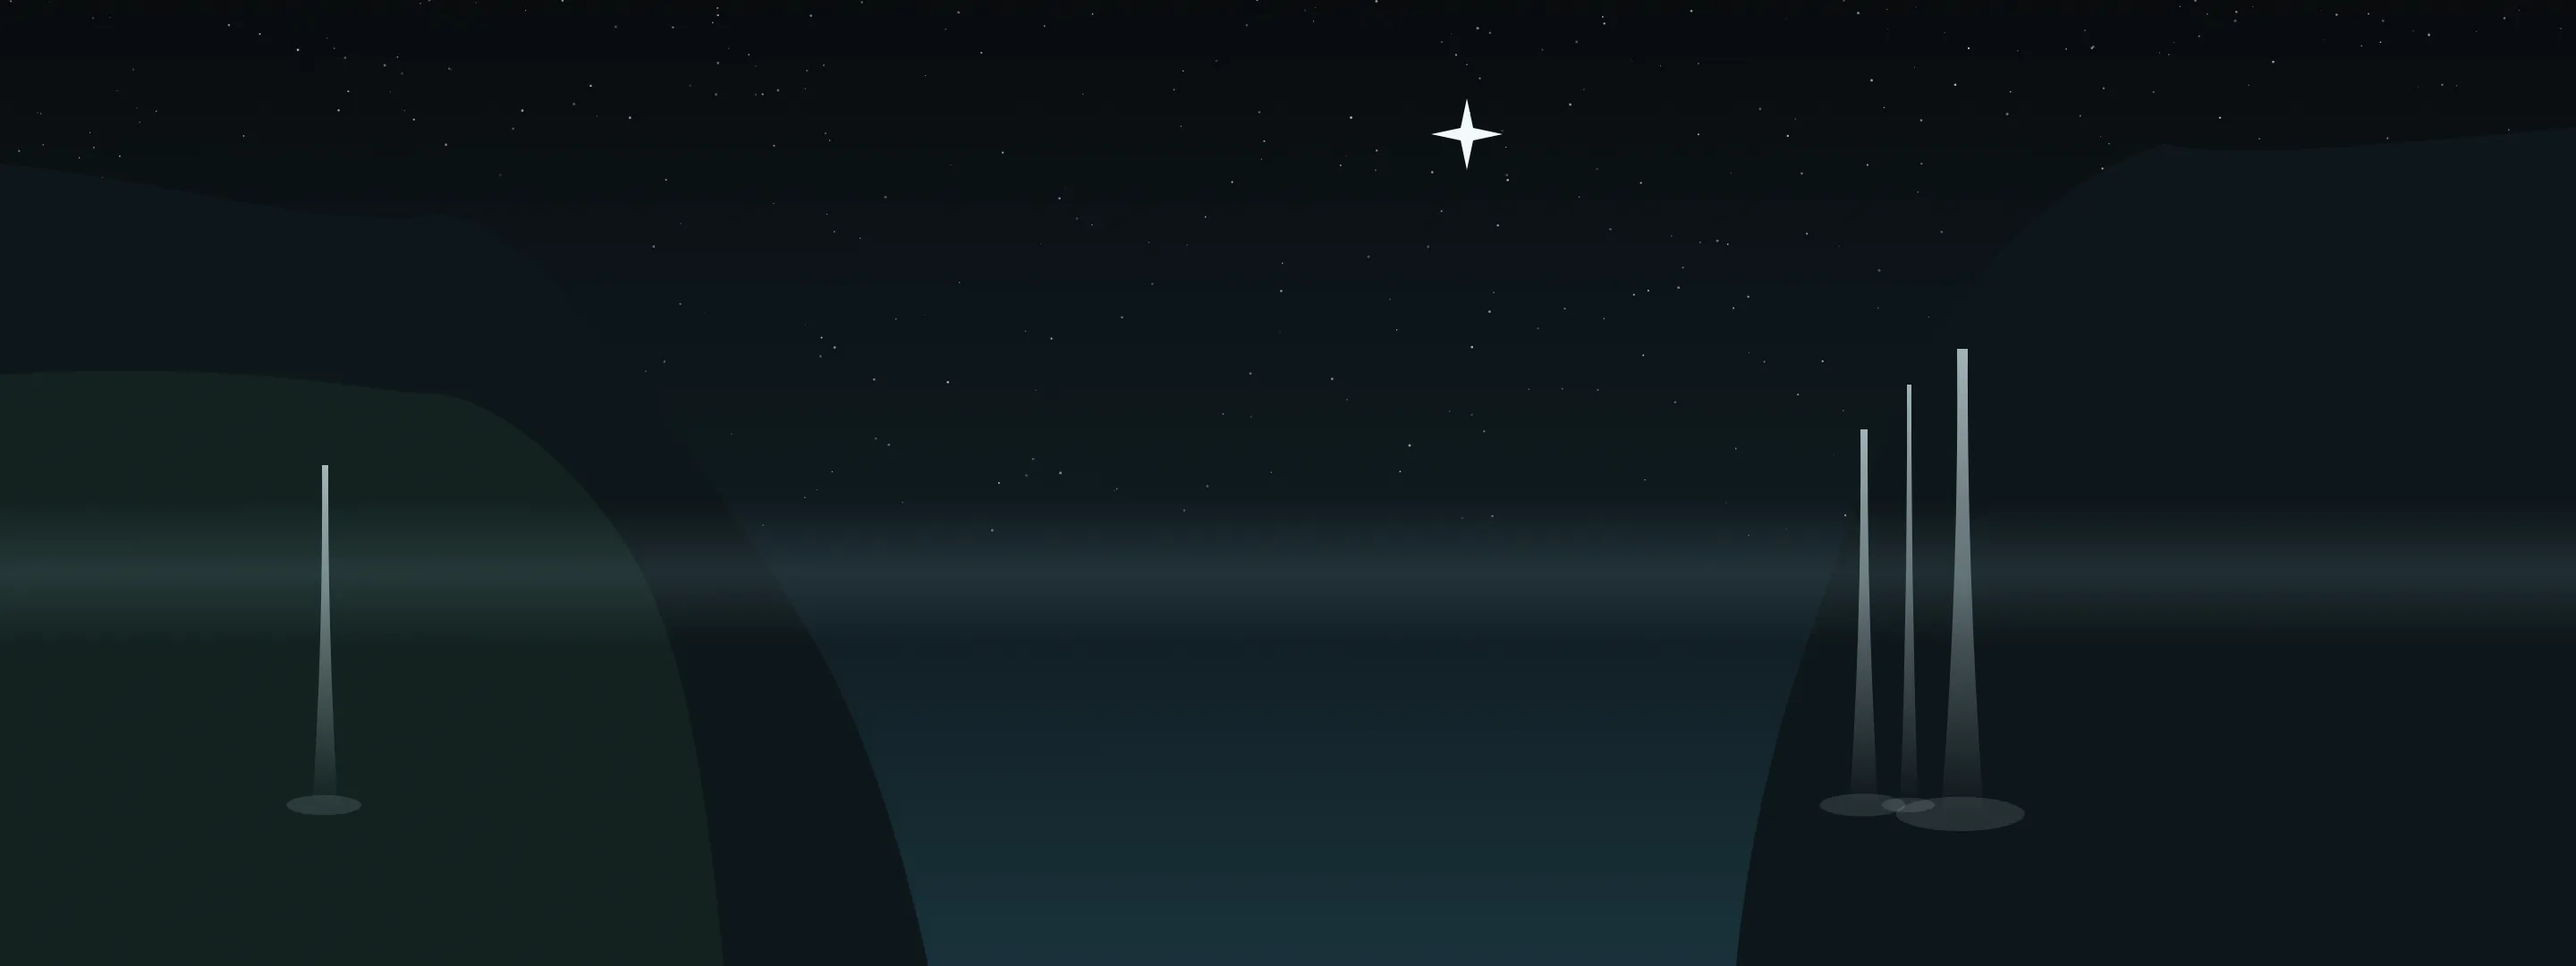
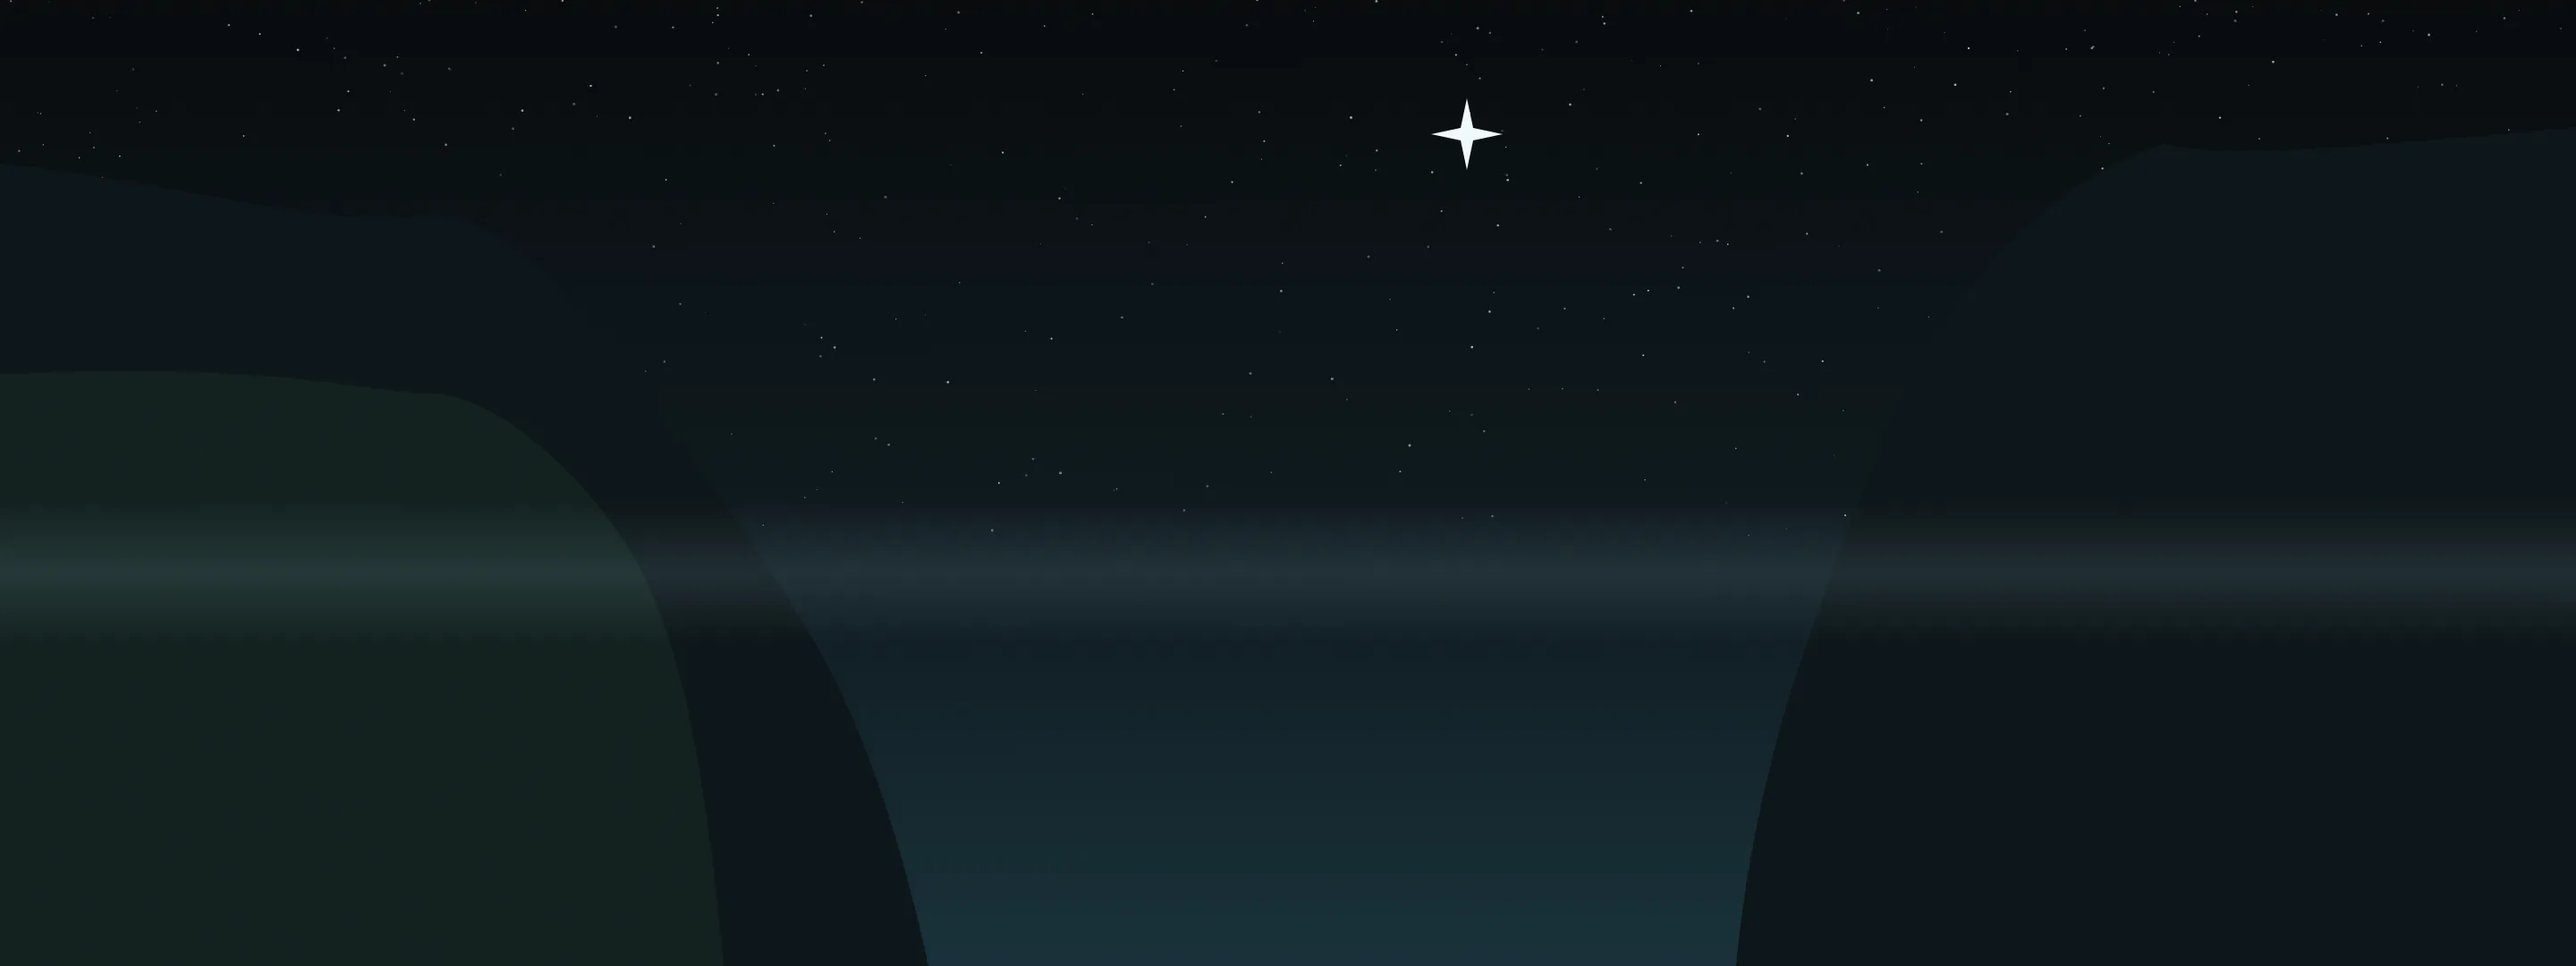
Elven Silver without the waterfalls; the scene animates whatever Windows' Animation effects say; a smoother Shire on the phone
Claude-Session: https://claude.ai/code/session_017W43PDuLZRYq8s74KtNtND

diff --git a/app/src/main/java/com/middleearth/launcher/Scene.kt b/app/src/main/java/com/middleearth/launcher/Scene.kt
@@ -162,7 +162,7 @@ object SvgPath {
 /**
  * The moving parts of one scene, in the design's units. Each look has its own (sun, clouds,
  * chimney smoke and river glints; the campfire, embers and compass; stars, the moon, lake glints
- * and the cabin window; waterfalls, mist, lanterns and rising motes), plus the weather.
+ * and the cabin window; mist, lanterns and rising motes), plus the weather.
  */
 class Motion(private val look: String, land: Boolean, private val weather: Int, private val still: Boolean) {
     private val L = land
@@ -250,7 +250,6 @@ class Motion(private val look: String, land: Boolean, private val weather: Int, 
     // --- Elven Silver
     private val star = if (L) floatArrayOf(1160f, 150f, 1f) else floatArrayOf(540f, 140f, 1.2f)
     private val starShader = radial(90f, 0x80BFE3EC.toInt(), 0x00BFE3EC)
-    private val falls = if (L) listOf(floatArrayOf(1600f, 480f, 8f, 420f), floatArrayOf(1652f, 430f, 5f, 470f), floatArrayOf(1708f, 390f, 12f, 520f), floatArrayOf(-120f, 520f, 7f, 380f))
         else listOf(floatArrayOf(960f, 1300f, 8f, 520f), floatArrayOf(1000f, 1250f, 12f, 600f))
     private val lamps = if (L) listOf(floatArrayOf(880f, 760f), floatArrayOf(1030f, 700f), floatArrayOf(1180f, 740f), floatArrayOf(960f, 820f), floatArrayOf(1110f, 800f), floatArrayOf(1250f, 830f), floatArrayOf(760f, 820f))
         else listOf(floatArrayOf(420f, 1700f), floatArrayOf(560f, 1600f), floatArrayOf(700f, 1680f), floatArrayOf(500f, 1800f), floatArrayOf(640f, 1780f), floatArrayOf(330f, 1820f))
@@ -284,12 +283,6 @@ class Motion(private val look: String, land: Boolean, private val weather: Int, 
             }
             "elven" -> {
                 glowAt(c, star[0], star[1], star[2] * (1f + .08f * breathe(t, 6f)), .8f + .2f * breathe(t, 6f), starShader, 90f)
-                if (!still) for ((i, f) in falls.withIndex()) for (k in 0 until 3) {
-                    val p = phase(t, 2.2f + i * .3f, k * .8f + i * .3f)
-                    val y = f[1] - 120 + (f[3] + 120) * p
-                    fill.color = 0xFFF2FAFC.toInt(); fill.alpha = (178 * (if (p < .2f) p / .2f else 1 - (p - .2f) / .8f)).toInt()
-                    c.drawRoundRect(RectF(f[0] - f[2] * .2f, y, f[0] + f[2] * .6f, y + 40), f[2] * .4f, f[2] * .4f, fill)
-                }
                 val dx = if (still) 0f else (-120 * cos(2 * PI * phase(t, 80f, 0f))).toFloat()
                 glow.shader = mistShader; glow.alpha = 255
                 c.drawRect(x0 - 200 + dx, mistY[0], x1 + 200 + dx, mistY[0] + mistY[1], glow)
@@ -431,9 +424,10 @@ class Motion(private val look: String, land: Boolean, private val weather: Int, 
     /** How often this scene needs a new frame: gentle scenes less often, saving battery. */
     val fps: Int = when {
         weather == 3 || weather == 5 || weather == 4 -> 30
+        look == "shire" -> 30      // slow drifting clouds and smoke need more frames to look smooth
         look == "redbook" -> 24
         look == "elven" -> 20
-        else -> 15
+        else -> 20
     }
 }
 

diff --git a/README.md b/README.md
@@ -35,7 +35,7 @@ The Lembas watch face, watch launcher and tile have their own repo: **[gbesh/lem
 | **Shire Morning** (light) | sunrise → late afternoon | Green hills and the river, the round green door, chimney smoke, drifting clouds and a glinting river |
 | **Red Book** (light) | late afternoon → sunset | A map of the Shire on parchment, with a flickering campfire, rising embers and a swaying compass |
 | **Starlit Night** (dark) | sunset → 11pm, and 4am → sunrise | Mountains over a still lake, a lakeside cabin with a lit window, twinkling stars and today's real moon phase |
-| **Elven Silver** (deep night) | 11pm → 4am | Rivendell's silver trees on a knoll, waterfalls, mist, lanterns and rising motes, under Eärendil's star |
+| **Elven Silver** (deep night) | 11pm → 4am | Rivendell's silver trees on a knoll, mist, lanterns and rising motes, under Eärendil's star |
 
 The scenes are the same drawings as Lembas for Windows and the watch: a tall version for an upright phone and the wide panorama for tablets and landscape. They change with **the seasons** (blossom in spring, autumn leaves, snow and bare branches in winter; flipped south of the equator), can show **the weather** outside (rain, snow, fog or heavy cloud; settings → Weather in the scene), and with **tilt depth** on, the layers shift a little as you tilt the phone. The weather comes from [Open-Meteo](https://open-meteo.com) (free, no account), asked about your time zone's main city at most once an hour; nothing else is sent.
 
@@ -130,7 +130,7 @@ Lembas draws its own line-art icon for over 150 common apps (phone, messages, Wh
 ## Why it's fast
 - The launcher itself is just the Android framework and Kotlin. The only libraries (an adb client, Conscrypt and BouncyCastle) are used for the one-time setup over Wireless debugging and for installing on the watch.
 - Each scene's still layers are pre-drawn pictures in the app (WebP, about 2 MB for all four looks in four seasons, two shapes each), decoded once at the screen's size. Drawing the home screen is then two or three images plus a few dozen small shapes for the animation.
-- Animations run at a gentle rate for each scene (15–24 fps, 30 in rain or snow), only while the home screen (or the wallpaper) is actually visible. They stop when an app is open, the drawer is open or the screen is off, and pause in battery saver. A setting turns them off completely.
+- Animations run at a gentle rate for each scene (20–30 fps), only while the home screen (or the wallpaper) is actually visible. They stop when an app is open, the drawer is open or the screen is off, and pause in battery saver. A setting turns them off completely.
 - Drawing an animation frame creates no new objects, so it never triggers garbage-collection stutter.
 - Icons are rendered once in the background and cached, in memory and on disk, so even a cold start shows the drawer at once; scrolling only draws ready-made bitmaps.
 - The app is kept small: fonts trimmed to the letters Lembas uses, no 32-bit Intel libraries, no unused crypto tables.
